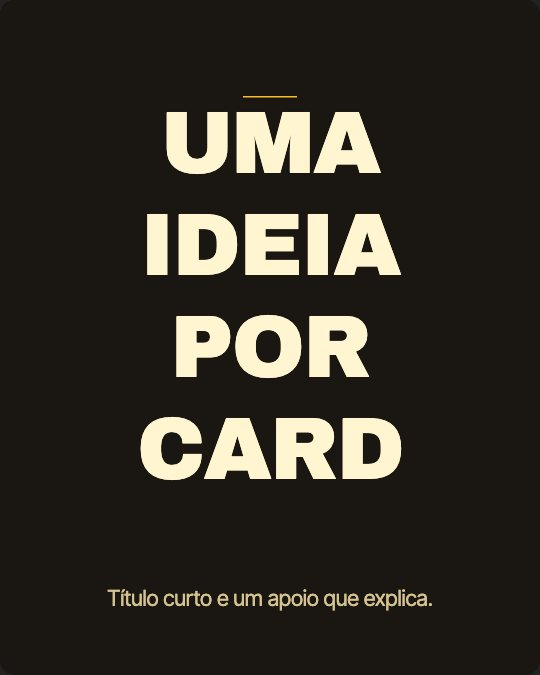
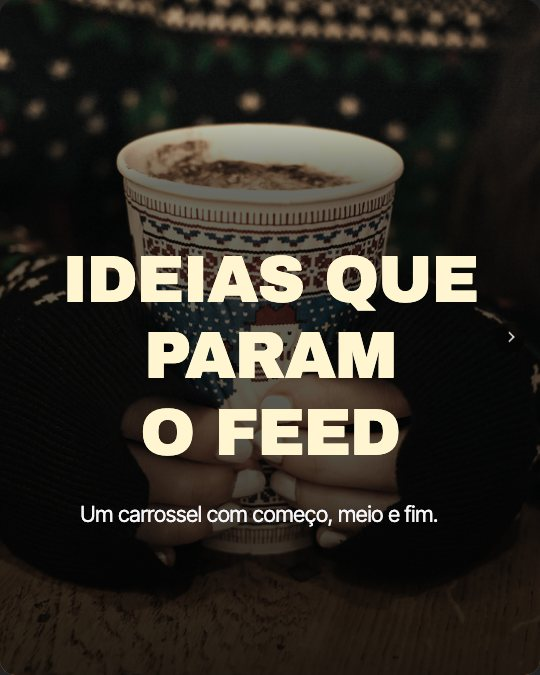
feat(seletor): capa com foto nas miniaturas dos 12 estilos virais
Os estilos de "Estilos para começar" mostravam o card sem foto. Agora a
miniatura é a capa, com uma foto de exemplo por estilo (CC0 ou domínio
público, créditos em docs/presentation/creditos-miniaturas.md). Nenhuma
foto se repete entre os 21 estilos de carrossel; o gerador recusa arquivos
de conteúdo igual.

diff --git a/src/styles/style-thumbnails.generated.js b/src/styles/style-thumbnails.generated.js
@@ -1,14 +1,14 @@
 // Gerado por scripts/build-style-thumbnails.mjs. Não editar à mão.
 // Capa de cada estilo desenhada pelo renderer real (SlideCardInner).
 export const STYLE_THUMBNAILS = Object.freeze({
-  "authority_black": "/style-thumbs/authority_black.jpg?v=be9a980d51",
-  "bold_promo_rosa": "/style-thumbs/bold_promo_rosa.jpg?v=0308801031",
-  "case_study_neon": "/style-thumbs/case_study_neon.jpg?v=991e81a4b2",
-  "cinematic_hybrid": "/style-thumbs/cinematic_hybrid.jpg?v=33beb71d1d",
-  "editorial_magazine": "/style-thumbs/editorial_magazine.jpg?v=75c16ae176",
-  "luxury_hybrid": "/style-thumbs/luxury_hybrid.jpg?v=a26c556881",
-  "minimal_clean": "/style-thumbs/minimal_clean.jpg?v=6f2d246006",
-  "mood_sepia": "/style-thumbs/mood_sepia.jpg?v=30db142d7a",
+  "authority_black": "/style-thumbs/authority_black.jpg?v=0ba9f1db23",
+  "bold_promo_rosa": "/style-thumbs/bold_promo_rosa.jpg?v=c788e9f960",
+  "case_study_neon": "/style-thumbs/case_study_neon.jpg?v=3219ed5ff6",
+  "cinematic_hybrid": "/style-thumbs/cinematic_hybrid.jpg?v=64fb8b5a41",
+  "editorial_magazine": "/style-thumbs/editorial_magazine.jpg?v=be15450bd2",
+  "luxury_hybrid": "/style-thumbs/luxury_hybrid.jpg?v=ff75a3e643",
+  "minimal_clean": "/style-thumbs/minimal_clean.jpg?v=be227ee819",
+  "mood_sepia": "/style-thumbs/mood_sepia.jpg?v=3f999b8d68",
   "presentation_cinematic": "/style-thumbs/presentation_cinematic.jpg?v=6be21412b8",
   "presentation_data_first": "/style-thumbs/presentation_data_first.jpg?v=49308e3ce4",
   "presentation_editorial_magazine": "/style-thumbs/presentation_editorial_magazine.jpg?v=976b96e7c6",
@@ -19,7 +19,7 @@ export const STYLE_THUMBNAILS = Object.freeze({
   "presentation_swiss_grid": "/style-thumbs/presentation_swiss_grid.jpg?v=eae54cc48e",
   "presentation_technical_blueprint": "/style-thumbs/presentation_technical_blueprint.jpg?v=e7c7593404",
   "presentation_typographic_bold": "/style-thumbs/presentation_typographic_bold.jpg?v=2c47337c33",
-  "reflexivo_cream": "/style-thumbs/reflexivo_cream.jpg?v=73e61e494e",
+  "reflexivo_cream": "/style-thumbs/reflexivo_cream.jpg?v=ea98c315bf",
   "social_cinema": "/style-thumbs/social_cinema.jpg?v=2fa4ac23d9",
   "social_documental": "/style-thumbs/social_documental.jpg?v=c878110773",
   "social_ficha": "/style-thumbs/social_ficha.jpg?v=6b68d2ffb4",
@@ -29,7 +29,7 @@ export const STYLE_THUMBNAILS = Object.freeze({
   "social_poster": "/style-thumbs/social_poster.jpg?v=2f8f8a0734",
   "social_produto": "/style-thumbs/social_produto.jpg?v=b861f1d241",
   "social_revista": "/style-thumbs/social_revista.jpg?v=a855abf48c",
-  "sports_editorial": "/style-thumbs/sports_editorial.jpg?v=fe6e1dc9a1",
-  "tabloid_keywords": "/style-thumbs/tabloid_keywords.jpg?v=476c80e047",
-  "viral_hype_dark": "/style-thumbs/viral_hype_dark.jpg?v=8dd5842459"
+  "sports_editorial": "/style-thumbs/sports_editorial.jpg?v=73576dbde7",
+  "tabloid_keywords": "/style-thumbs/tabloid_keywords.jpg?v=6e028869d0",
+  "viral_hype_dark": "/style-thumbs/viral_hype_dark.jpg?v=10a796adb6"
 });

diff --git a/tests/unit/style-thumbnails.test.js b/tests/unit/style-thumbnails.test.js
@@ -7,7 +7,7 @@ import { STYLE_THUMBNAILS } from '../../src/styles/style-thumbnails.generated.js
 import { VISUAL_PRESETS, renderPresetPreview } from '../../src/styles/visual-presets.jsx';
 import { PRESENTATION_VISUAL_PRESETS, renderPresentationPresetPreview } from '../../src/styles/presentation-presets.jsx';
 import { SOCIAL_FAMILY_KEYS } from '../../src/utils/social-families.js';
-import { SOCIAL_FAMILY_COVER_PHOTO } from '../../scripts/style-thumbnail-photos.mjs';
+import { SOCIAL_FAMILY_COVER_PHOTO, VIRAL_PRESET_COVER_PHOTO } from '../../scripts/style-thumbnail-photos.mjs';
 
 const root = path.resolve(__dirname, '../..');
 const visible = [...VISUAL_PRESETS, ...PRESENTATION_VISUAL_PRESETS].filter((p) => !p.hidden && !p.isCustom);
@@ -42,6 +42,23 @@ describe('miniaturas dos estilos', () => {
     const photos = Object.values(SOCIAL_FAMILY_COVER_PHOTO);
     expect(new Set(photos).size).toBe(photos.length);
     for (const name of photos) expect(name).toMatch(/^[a-z]+-\d+$/);
+  });
+
+  it('cada estilo viral tem a própria foto de exemplo, sem repetir as das famílias', () => {
+    const viral = VISUAL_PRESETS.filter((p) => !p.hidden && !p.isCustom && !p.socialFamily && p.productKind !== 'apresentacao').map((p) => p.id);
+    expect(viral.length).toBe(12);
+    expect(Object.keys(VIRAL_PRESET_COVER_PHOTO).sort()).toEqual([...viral].sort());
+    const photos = [...Object.values(VIRAL_PRESET_COVER_PHOTO), ...Object.values(SOCIAL_FAMILY_COVER_PHOTO)];
+    expect(new Set(photos).size).toBe(photos.length);
+    for (const name of Object.values(VIRAL_PRESET_COVER_PHOTO)) expect(name).toMatch(/^[a-z]+-\d+$/);
+  });
+
+  it('o gerador fotografa a capa com foto também nos estilos virais', () => {
+    const script = fs.readFileSync(path.join(root, 'scripts/build-style-thumbnails.mjs'), 'utf8');
+    expect(script).toContain('VIRAL_PRESET_COVER_PHOTO');
+    expect(script).toContain('VIRAL_PHOTO[preset.id]');
+    // A capa (card 1) vale para todos; o card sem foto deixou de ser a miniatura dos virais.
+    expect(script).not.toContain('const own=composed.findIndex');
   });
 
   it('o gerador usa a foto da família na capa', () => {

diff --git a/docs/presentation/creditos-miniaturas.md b/docs/presentation/creditos-miniaturas.md
@@ -4,8 +4,7 @@ As miniaturas do seletor (`public/style-thumbs/*.jpg`) são fotografadas do rend
 (`SlideCardInner`) por `scripts/build-style-thumbnails.mjs`, que também grava
 `src/styles/style-thumbnails.generated.js`.
 
-- Carrossel, 12 estilos virais: card de abertura sem foto, no fundo próprio do estilo.
-- Carrossel, 9 famílias editoriais: capa com uma foto de exemplo por família (`scripts/style-thumbnail-photos.mjs`), da mesma galeria das apresentações.
+- Carrossel, 12 estilos virais e 9 famílias editoriais: capa com uma foto de exemplo por estilo (`scripts/style-thumbnail-photos.mjs`), da mesma galeria das apresentações. Nenhuma foto se repete; o gerador recusa arquivos de conteúdo igual.
 - Apresentação, 10 famílias: capa do deck de demonstração de `docs/presentation/template-gallery-content.json`.
 
 Conteúdo fictício. As fotos das capas de apresentação são da galeria de templates 2.0,
@@ -25,6 +24,23 @@ autores e páginas listados por família lá).
 | Minimal | `luxury-0.jpg` | Tea Set (Coffee Cup) LACMA 67.1.8 | Fæ | PDM | https://www.flickr.com/photos/50398299@N08/16258842100 |
 | Pôster | `cultural-5.jpg` | I love these giant coffee cup planters! (my hand is there 4 perspec… | Susan Dennis | PDM | https://www.flickr.com/photos/23506271@N06/4497254333 |
 | Cinema | `cinematic-1.jpg` | Long Exposure on Freeway at Night | Image Catalog | CC0 | https://www.flickr.com/photos/132795455@N08/19155567475 |
+
+## Fotos de exemplo dos estilos virais
+
+| Estilo | Arquivo | Título | Autor | Licença | Página |
+|---|---|---|---|---|---|
+| Sports Editorial | `cultural-3.jpg` | 2014 Language Day at DLIFLC | Presidio of Monterey: DLIFLC & USAG | PDM | https://www.flickr.com/photos/38345529@N05/14144581891 |
+| Case Study Neon | `executive-0.jpg` | Boardroom Business | Olu Eletu | CC0 | https://stocksnap.io/photo/boardroom-business-KCIU8RWM09 |
+| Mood Sépia | `luxury-1.jpg` | Girl holding christmas coffee cup | freestocks.org | CC0 | https://www.flickr.com/photos/135396164@N05/31164821320 |
+| Bold Promo Pink | `photo-3.jpg` | A close-up of a white plate filled with thinly sliced ibérico ham… | Nilo Velez | CC0 | ver `creditos-imagens.json` da galeria |
+| Reflexivo Serif | `typographic-0.jpg` | Writing Drawing | Green Chameleon | CC0 | https://stocksnap.io/photo/writing-drawing-8Y0EDX4VP9 |
+| Tabloid Keywords | `swiss-1.jpg` | 2011.06 - New arch-construction above the existing road… Central Station Amsterdam | Amsterdam free photos & pictures of the Dutch city | CC0 | ver `creditos-imagens.json` da galeria |
+| Editorial Magazine | `photo-0.jpg` | The cook's smile, cooking vegetarian green bean soup… | Wonderlane | CC0 | https://www.flickr.com/photos/71401718@N00/6231890399 |
+| Luxury Hybrid | `editorial-1.jpg` | Glass Perfume Bottles | Gary Lee Todd, Ph.D. | CC0 | https://www.flickr.com/photos/101561334@N08/43171501532 |
+| Viral Hype Dark | `cinematic-2.jpg` | Light Trails on the Street | MyStockPhotos | CC0 | https://www.flickr.com/photos/136375272@N05/21762203635 |
+| Cinematic Hybrid | `cinematic-4.jpg` | Aerial night photo of Holiday Inn, parking deck, I-405 | D Coetzee | CC0 | https://www.flickr.com/photos/29507259@N02/6812139718 |
+| Authority Black | `typographic-2.jpg` | black-and-white-coffee-cup-apple | pixellaphoto | CC0 | https://www.flickr.com/photos/137643065@N06/23697457474 |
+| Minimal Clean | `modular-1.jpg` | Office Work | Negative Space | CC0 | https://stocksnap.io/photo/office-work-VHXFNKMU96 |
 
 ## Regerar
 
